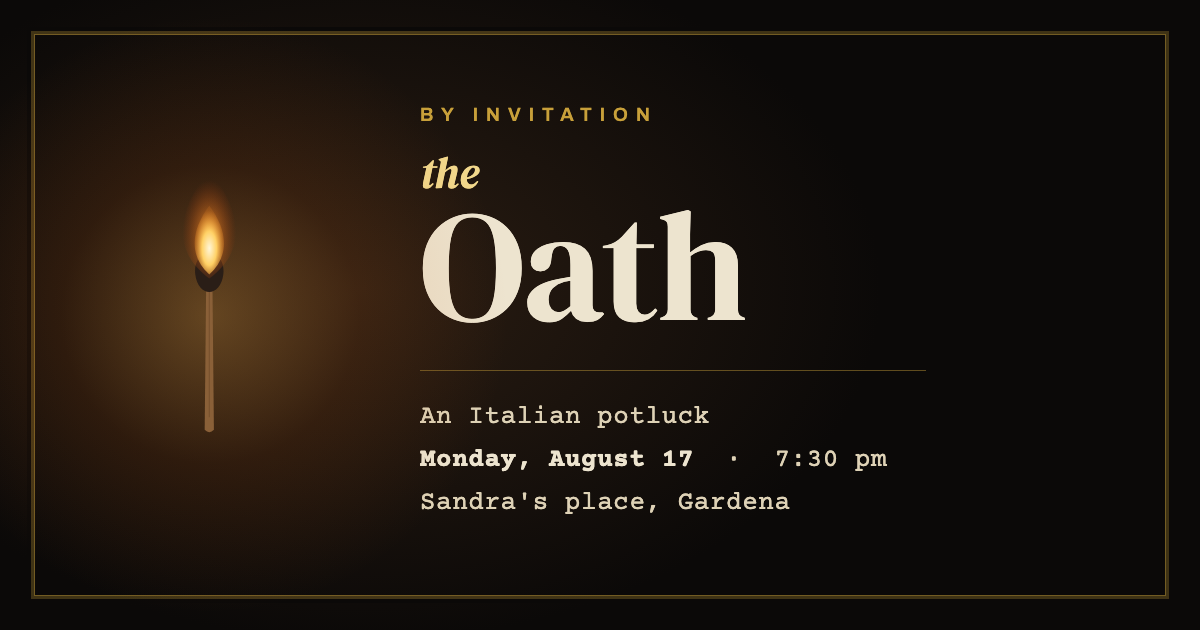
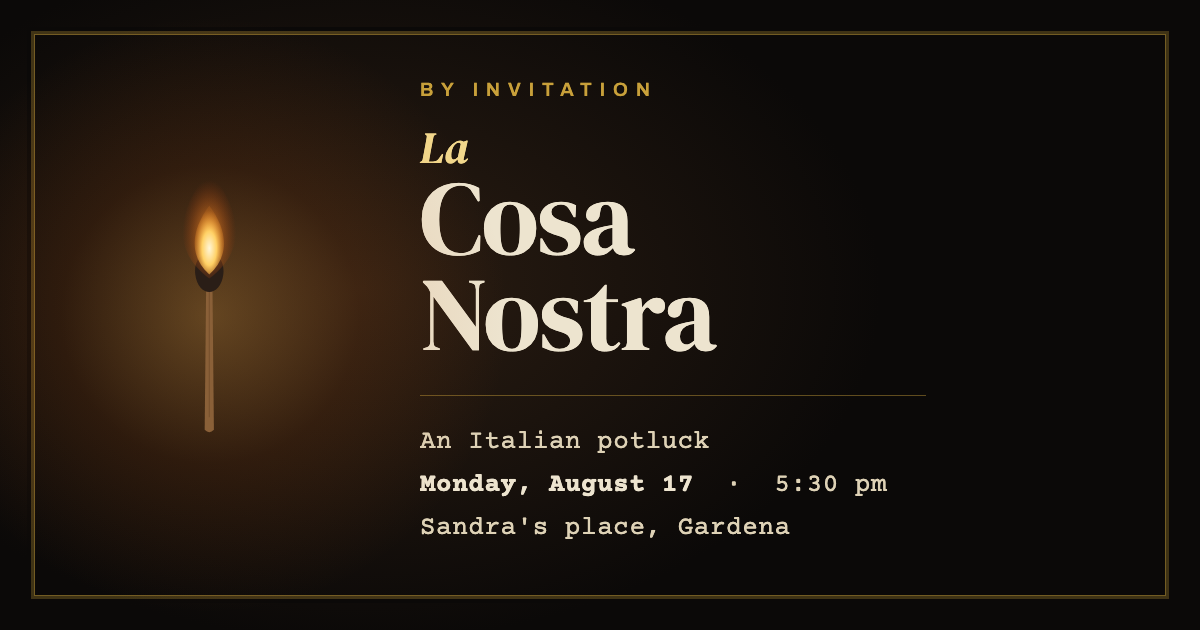
La Cosa Nostra, 5:30 pm, and the match every time
Jacky's three: the name, the hour, and striking the match on every
visit rather than once per guest. Nothing is remembered now, so the
intro always runs; reduced motion still skips it and a tap still cuts it.

The name is eleven characters where the old one was four, so the
wordmark and the intro are sized to what they now carry and allowed to
break in two. The seal reads COSA NOSTRA.

Changed region(s): [[0.3392, 0.2111, 0.6167, 0.573], [0.3392, 0.6333, 0.74, 0.8444], [0.3392, 0.1206, 0.555, 0.2111]]

diff --git a/docs/index.html b/docs/index.html
@@ -3,15 +3,15 @@
 <head>
 <meta charset="utf-8">
 <meta name="viewport" content="width=device-width, initial-scale=1, viewport-fit=cover">
-<title>The Oath</title>
+<title>La Cosa Nostra</title>
 <meta name="description" content="An Italian potluck. Eight courses, one table. Swear to one before somebody else takes it.">
 <meta name="theme-color" content="#0B0A09">
 
-<meta property="og:title" content="The Oath">
+<meta property="og:title" content="La Cosa Nostra">
 <meta property="og:description" content="An Italian potluck. Monday 17 August, 7:30 pm. Eight courses, one table — swear to one before somebody else takes it.">
 <meta property="og:type" content="website">
 <meta property="og:url" content="https://javierdepascual.github.io/the-oath/">
-<meta property="og:site_name" content="The Oath">
+<meta property="og:site_name" content="La Cosa Nostra">
 <!-- Absolute URL and a real PNG: chat apps neither resolve relative paths
      nor render SVG or CSS. Bump ?v to force a re-scrape after a change. -->
 <meta property="og:image" content="https://javierdepascual.github.io/the-oath/og.png">
@@ -19,9 +19,9 @@
 <meta property="og:image:type" content="image/png">
 <meta property="og:image:width" content="1200">
 <meta property="og:image:height" content="630">
-<meta property="og:image:alt" content="A lit match beside the words 'the Oath', with the date and place.">
+<meta property="og:image:alt" content="A lit match beside the words 'La Cosa Nostra', with the date and place.">
 <meta name="twitter:card" content="summary_large_image">
-<meta name="twitter:title" content="The Oath">
+<meta name="twitter:title" content="La Cosa Nostra">
 <meta name="twitter:description" content="An Italian potluck. Monday 17 August, 7:30 pm.">
 <meta name="twitter:image" content="https://javierdepascual.github.io/the-oath/og.png">
 
@@ -30,17 +30,18 @@
 <link href="https://fonts.googleapis.com/css2?family=DM+Serif+Display:ital@0;1&family=Archivo:wght@400;500;600&family=Courier+Prime:ital,wght@0,400;0,700;1,400&display=swap" rel="stylesheet">
 <!-- Bump ?v when style.css or app.js change: GitHub Pages caching
      otherwise leaves guests on an old stylesheet for hours. -->
-<link rel="stylesheet" href="style.css?v=6">
+<link rel="stylesheet" href="style.css?v=7">
 
 <!-- The book. Filled in once the Worker is deployed. -->
 <script>window.POTLUCK_API = "https://the-oath.javierdepascual.workers.dev";</script>
 
 <!-- Decide before first paint, so a returning visitor never sees a black flash. -->
 <script>
+  /* Jacky wants the match struck on every visit, so nothing is remembered
+     here any more. Reduced motion still skips it, and a tap still cuts it. */
   try {
-    if (location.search.includes("nointro") || (!location.search.includes("intro") &&
-        (localStorage.getItem("the-oath-intro") ||
-         matchMedia("(prefers-reduced-motion: reduce)").matches))) {
+    if (location.search.includes("nointro") ||
+        matchMedia("(prefers-reduced-motion: reduce)").matches) {
       document.documentElement.className = "no-intro";
     }
   } catch (e) { document.documentElement.className = "no-intro"; }
@@ -88,8 +89,8 @@
   </svg>
 
   <p class="intro-word">
-    <i>the</i>
-    <span>Oath</span>
+    <i>La</i>
+    <span>Cosa Nostra</span>
   </p>
 </div>
 
@@ -102,8 +103,8 @@
   <p class="eyebrow" id="host-line">By invitation</p>
 
   <h1 class="wordmark">
-    <span class="wordmark-b"><i>the</i></span>
-    <span class="wordmark-c">Oath</span>
+    <span class="wordmark-b"><i>La</i></span>
+    <span class="wordmark-c">Cosa Nostra</span>
   </h1>
 
   <p class="dek" id="party-line">An Italian potluck, done properly.</p>
@@ -164,7 +165,7 @@
 
 <div class="toast" id="toast" role="status" aria-live="polite"></div>
 
-<script src="courses.js?v=6"></script>
-<script src="app.js?v=6"></script>
+<script src="courses.js?v=7"></script>
+<script src="app.js?v=7"></script>
 </body>
 </html>

diff --git a/docs/kitchen.html b/docs/kitchen.html
@@ -3,15 +3,15 @@
 <head>
 <meta charset="utf-8">
 <meta name="viewport" content="width=device-width, initial-scale=1, viewport-fit=cover">
-<title>The Oath · Kitchen</title>
+<title>La Cosa Nostra · Kitchen</title>
 <meta name="robots" content="noindex">
 <meta name="theme-color" content="#0B0A09">
 
 <link rel="preconnect" href="https://fonts.googleapis.com">
 <link rel="preconnect" href="https://fonts.gstatic.com" crossorigin>
 <link href="https://fonts.googleapis.com/css2?family=DM+Serif+Display:ital@0;1&family=Archivo:wght@400;500;600&family=Courier+Prime:ital,wght@0,400;0,700;1,400&display=swap" rel="stylesheet">
-<link rel="stylesheet" href="style.css?v=6">
-<link rel="stylesheet" href="kitchen.css?v=6">
+<link rel="stylesheet" href="style.css?v=7">
+<link rel="stylesheet" href="kitchen.css?v=7">
 
 <script>window.POTLUCK_API = "https://the-oath.javierdepascual.workers.dev";</script>
 </head>
@@ -62,7 +62,7 @@
   </footer>
 </main>
 
-<script src="courses.js?v=6"></script>
-<script src="kitchen.js?v=6"></script>
+<script src="courses.js?v=7"></script>
+<script src="kitchen.js?v=7"></script>
 </body>
 </html>

diff --git a/docs/app.js b/docs/app.js
@@ -23,7 +23,7 @@ const PARTY = {
   host:    "By invitation",
   name:    "An Italian potluck. Eight courses, one table.",
   when:    "Monday, August 17",
-  time:    "7:30 pm",
+  time:    "5:30 pm",
   where:   "Sandra's place, Gardena",
   signoff: "",
 };
@@ -157,7 +157,7 @@ function seal(course) {
       <textPath href="#${ringId}" startOffset="25%" text-anchor="middle">SWORN IN</textPath>
     </text>
     <text class="seal-ring">
-      <textPath href="#${ringId}" startOffset="75%" text-anchor="middle">THE OATH</textPath>
+      <textPath href="#${ringId}" startOffset="75%" text-anchor="middle">COSA NOSTRA</textPath>
     </text>
     <text class="seal-numeral" x="60" y="71" text-anchor="middle">${course.numeral}</text>
   </svg>`;
@@ -670,7 +670,6 @@ function strikeMatch() {
     intro.classList.add("is-done");
     document.body.classList.remove("intro-running");
     setTimeout(() => intro.remove(), 900);
-    try { localStorage.setItem("the-oath-intro", "1"); } catch (e) { /* private mode */ }
   };
 
   setTimeout(snuff, 3600);

diff --git a/docs/style.css b/docs/style.css
@@ -206,7 +206,10 @@ body.intro-running { overflow: hidden; }
   letter-spacing: 0.04em;
 }
 .intro-word span {
-  font-size: clamp(3.2rem, 13vw, 6rem);
+  font-size: clamp(2.3rem, 9.5vw, 4.4rem);
+  line-height: 0.95;
+  max-width: 9ch;
+  text-wrap: balance;
 }
 @keyframes word-dissolve {
   0%   { opacity: 0; filter: blur(14px); transform: translateY(-16vh) scale(1.06); }
@@ -285,7 +288,13 @@ body.intro-running { overflow: hidden; }
   margin-bottom: -0.12em;
 }
 .wordmark-b i { font-style: italic; }
-.wordmark-c { font-size: 1.22em; }   /* one weight only: no faux bold */
+/* "Cosa Nostra" is eleven characters where "Oath" was four, so this is
+   sized to the name it actually carries and allowed to break in two. */
+.wordmark-c {
+  font-size: 0.92em;
+  line-height: 0.94;
+  text-wrap: balance;
+}
 
 .dek {
   margin: 1.5rem auto 0;

diff --git a/tools/og.html b/tools/og.html
@@ -51,7 +51,7 @@
   }
   .name {
     font-family: "DM Serif Display", serif;
-    font-size: 156px; line-height: 0.9; letter-spacing: -0.01em; color: #EDE4CF;
+    font-size: 104px; line-height: 0.92; letter-spacing: -0.01em; color: #EDE4CF;
   }
   .rule { height: 1px; background: rgba(200,160,58,0.45); margin: 34px 0 26px; width: 74%; }
   .facts {
@@ -88,12 +88,12 @@
 
 <div class="text">
   <p class="kicker">By invitation</p>
-  <p class="the">the</p>
-  <p class="name">Oath</p>
+  <p class="the">La</p>
+  <p class="name">Cosa<br>Nostra</p>
   <div class="rule"></div>
   <p class="facts">
     An Italian potluck<br>
-    <b>Monday, August 17</b> &nbsp;·&nbsp; 7:30 pm<br>
+    <b>Monday, August 17</b> &nbsp;·&nbsp; 5:30 pm<br>
     Sandra's place, Gardena
   </p>
 </div>
